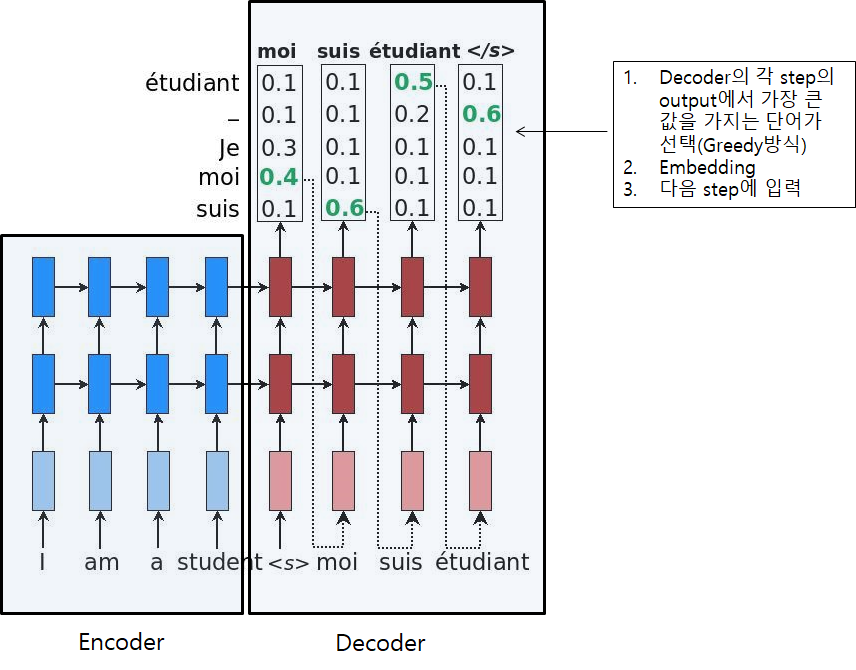
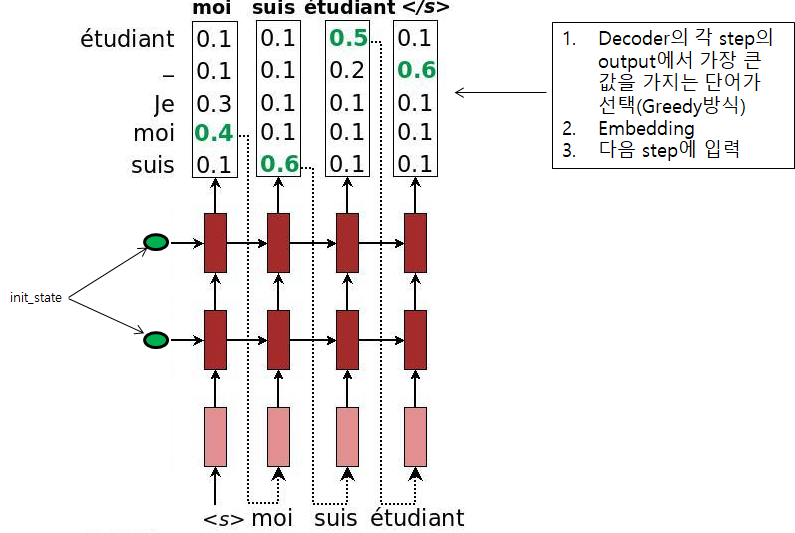
.

Changed region(s): [[0.0, 0.0, 0.6642, 0.9906], [0.6943, 0.03, 1.0, 0.3302]]

diff --git a/1. Tensorflow-Addons/README.md b/1. Tensorflow-Addons/README.md
@@ -90,8 +90,12 @@ outputs, last_state, last_sequence_lengths = decoder(embedding.weights,initial_s
 - 그런데, EOS_token을 모델이 만들지 못하면 무한히 sequence를 생성할 수도 있기 때문에, 이를 방지하기 위해 `BasicDecoder`에서 `maximum_iterations`를 지정해 주고 있다.
 - `GreedyEmbeddingSampler`는 randomness가 없기 때문에, output의 결과는 batch_size 만큼 동일하다.
 
-
-
+## Encoder-Decoder Model
+- Encoder-Decoder Model은 seq2seq라고도 불린다.
+- NMT(번역), TTS, STT등에서 Encoder-Decoder Model이 사용된다.
+- 영어-한글 번역 NMT 문제에서는 영어를 Encoder로 처리하고, Decoder가 번역된 한글 문장을 생성하는 역할을 한다.  
+- TTS에서는 주어진 문장을 음성으로 변환해야 하는데, text로된 문장을 Encoder가 처리하고 Decoder가 음성을 생성하는 역할을 한다.
+![decode](./Encoder_Decoder.png)
 
 
 
